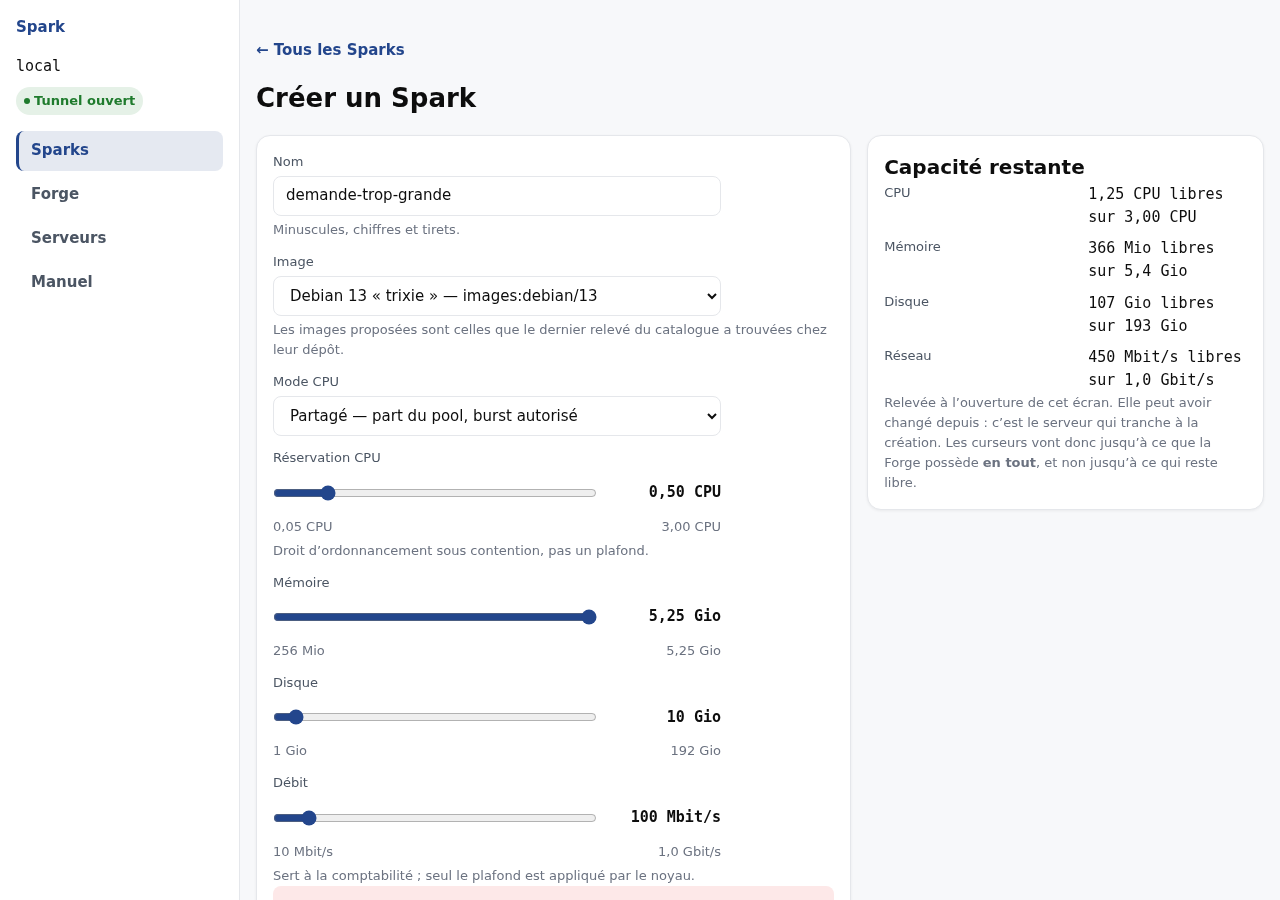
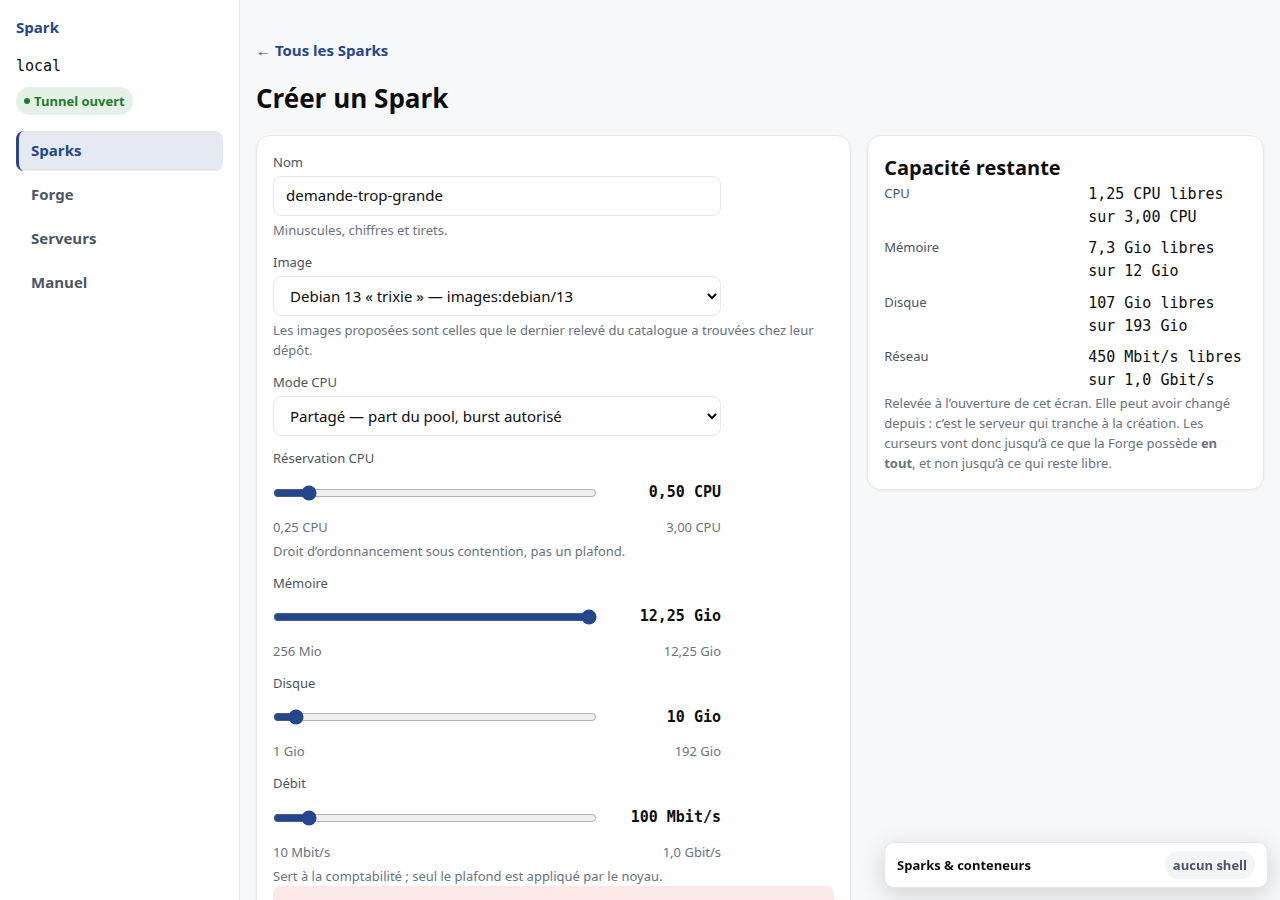
regler le CPU par quarts, la ou 0,05 ne vendait rien (SPK-59)
Decision du responsable : la reservation et le plafond CPU se reglent par
pas de 0,25 CPU, borne basse comprise, et non plus de 0,05.

0,25 CPU est la plus petite part que le produit partage. Les quatre crans
intermediaires ne correspondaient a aucune part demandee, et la borne
basse tombait sur 0,05 CPU, que personne ne demande. Sur un pool de
4 CPU, le curseur passe de 80 crans a 16.

Ce n'est pas une limite de la machine, et le document le dit maintenant :
sparkd sait poser plus fin — environ 0,024 CPU sur un pool de 4 CPU a la
priorite par defaut (DAT §7.2 bis). Le motif que la table du SPK-DS-07
portait pour 0,05 CPU, « la plus petite part que le produit sait poser »,
etait donc faux ; il est remplace.

Le plafond suit la meme grille que la reservation : deux quotas de la
meme unite sur le meme ecran ne peuvent pas avancer par crans
differents. Les parts du seed — 0,25 et 0,50 CPU — restent sur un cran,
donc atteignables au curseur.

DESIGN_SYSTEM_APP SPK-DS-07, BACKLOG SPK-59 et manuel M5 mis a jour,
illustrations m5-formulaire et m5-refus refaites et observees.

diff --git a/apps/webui/src/components/spark-create.test.js b/apps/webui/src/components/spark-create.test.js
@@ -323,6 +323,35 @@ test('la memoire avance par pas de 256 Mio', () => {
   assert.equal(formatQuota('memory_gib', 0.5), '512 Mio');
 });
 
+test('la reservation et le plafond CPU avancent par pas de 0,25 CPU', () => {
+  // Decision du responsable (SPK-DS-07) : 0,25 CPU est la plus petite part que
+  // le produit partage. Un pas de 0,05 offrait quatre crans intermediaires
+  // qu'aucune part vendable n'occupe, et posait la borne basse a 0,05 CPU.
+  assert.equal(QUOTAS.cpu_reservation.pas, 0.25);
+  assert.equal(QUOTAS.cpu_reservation.min, 0.25);
+  assert.equal(QUOTAS.cpu_max.pas, 0.25);
+  assert.equal(QUOTAS.cpu_max.min, 0.25);
+  const partage = renderSparkCreate({ values: { ...DEFAUTS, name: 'ok' }, ...CONTEXTE });
+  assert.match(partage, /id="cpu_reservation"[^>]*step="0.25"/);
+  assert.match(partage, /id="cpu_reservation"[^>]*min="0.25"/);
+  const plafonne = renderSparkCreate(
+    { values: { ...DEFAUTS, name: 'ok', cpu_mode: 'capped' }, ...CONTEXTE });
+  assert.match(plafonne, /id="cpu_max"[^>]*step="0.25"/);
+  assert.match(plafonne, /id="cpu_max"[^>]*min="0.25"/);
+});
+
+test('les parts du SEED restent atteignables au curseur', () => {
+  // 0,25 et 0,5 CPU : ce que le seed pose. Une grille qui les manquerait
+  // renverrait l'ecran a la saisie sur ses propres donnees de demonstration.
+  const max = borneHaute('cpu_reservation', CONTEXTE);
+  for (const part of [0.25, 0.5, 1]) {
+    const html = renderSparkCreate(
+      { values: { ...DEFAUTS, name: 'ok', cpu_reservation: part }, ...CONTEXTE });
+    assert.match(html, new RegExp(`<input type="range"[^>]*id="cpu_reservation"`),
+      `${part} CPU doit tomber sur un cran (borne haute ${max})`);
+  }
+});
+
 test('la valeur affichee est EXACTE sur la grille, jamais arrondie', () => {
   // §6.9 bis : un curseur qui affiche « 10 Gio » pour 10,25 ment sur ce qu'il
   // envoie, et trois crans sur quatre deviennent invisibles.

diff --git a/apps/webui/src/components/spark-create.js b/apps/webui/src/components/spark-create.js
@@ -146,10 +146,17 @@ function nombre(id, valeur, pas, erreur, aide) {
  * d'admission deviendrait inatteignable depuis le parcours canonique.
  */
 export const QUOTAS = {
-  cpu_reservation: { pas: 0.05, min: 0.05,
+  // 0,25 CPU, décision du responsable (SPK-DS-07) : c'est la plus petite part
+  // que le produit accepte de PARTAGER, donc la plus petite qu'un curseur doive
+  // savoir viser. Le pas de 0,05 offrait quatre crans intermédiaires dont aucun
+  // ne correspondait à une part vendable, et il posait la borne basse sur une
+  // valeur — 0,05 CPU — que personne ne demande.
+  cpu_reservation: { pas: 0.25, min: 0.25,
                      borne: (c) => c.pools?.cpu?.capacity,
                      format: (v) => `${formatCpu(v)} CPU` },
-  cpu_max:         { pas: 0.05, min: 0.05,
+  // Même grille pour le plafond : deux quotas de la même unité sur le même
+  // écran ne peuvent pas avancer par crans différents.
+  cpu_max:         { pas: 0.25, min: 0.25,
                      borne: (c) => c.pools?.cpu?.capacity,
                      format: (v) => `${formatCpu(v)} CPU` },
   cpu_cores:       { pas: 1, min: 1,

diff --git a/docs/DESIGN_SYSTEM_APP.md b/docs/DESIGN_SYSTEM_APP.md
@@ -292,11 +292,29 @@ numérique** : sans bornes, pas de curseur (§6.9 bis, condition 1).
 
 | Quota | Pas | Motif |
 |---|---|---|
-| réservation et plafond CPU | 0,05 CPU | la plus petite part que le produit sait poser |
+| réservation et plafond CPU | **0,25 CPU** | décision du responsable, 2026-09-02 |
 | cœurs | 1 | un cœur physique ne se coupe pas |
 | **mémoire** | **256 Mio** | décision du responsable, 2026-08-20 |
 | disque | 1 Gio | le quota compte l'écrit après compression, au gibioctet |
 | débit | 10 Mbit/s | la comptabilité du lien ne descend pas plus bas |
+
+**0,25 CPU est la plus petite part que le produit partage**, et c'est une
+décision de produit, non une limite de la machine. `sparkd` sait poser plus fin :
+à l'échelle ×1000 du `docs/DAT.md` §7.2 bis, le plancher d'une réservation vaut
+`11 − priorité` pour mille du pool partagé, soit environ 0,024 CPU sur un pool de
+4 CPU à la priorité par défaut. Le pas de 0,05 CPU offrait donc quatre crans
+intermédiaires entre deux parts vendables, dont aucun ne correspond à une part
+que quiconque demande, et il posait la borne basse du curseur sur 0,05 CPU. Le
+pas de 0,25 CPU place chaque cran sur une part réelle — 0,25, 0,50, 0,75, 1 CPU —
+et fait tomber le curseur d'un pool de 4 CPU de 80 crans à 16.
+
+Le plafond suit la même grille que la réservation : deux quotas de la même unité
+sur le même écran ne peuvent pas avancer par crans différents (§6.9 bis).
+
+Les parts que le seed emploie — 0,25 et 0,50 CPU — restent sur un cran, donc
+atteignables au curseur. Une réservation déjà posée hors de cette grille se rend
+en **saisie**, par la règle générale : l'écran n'arrondit jamais en silence ce
+qu'il s'apprête à envoyer.
 
 Le gibioctet était trop grossier pour la mémoire, et la mesure le dit : le seed
 pose des Sparks à **512 Mio**, valeur qu'un pas de 1 Gio rend inatteignable. Sur

diff --git a/docs/BACKLOG.md b/docs/BACKLOG.md
@@ -3544,6 +3544,16 @@ manipulables, et que ce pas ne détruit pas la granularité que la valeur signif
   2026-08-20 dans `docs/AGENT_RUNBOOK.md` §F, avec le chiffre qui la rend non
   négociable : la VM de développement dispose de **7,5 Gio**, pas de la mémoire
   de la machine hôte.
+- **Amendement du responsable, 2026-09-02, livré le même jour** : la réservation
+  et le plafond CPU se règlent par pas de **0,25 CPU**, borne basse comprise, et
+  non plus de 0,05. Motif : 0,25 CPU est la plus petite part que le produit
+  partage ; les quatre crans intermédiaires ne correspondaient à aucune part
+  demandée, et la borne basse tombait sur 0,05 CPU, que personne ne demande. Ce
+  n'est **pas** une limite de la machine — `sparkd` sait poser plus fin, environ
+  0,024 CPU sur un pool de 4 CPU à la priorité par défaut (`docs/DAT.md`
+  §7.2 bis) —, et le motif que la table du SPK-DS-07 portait pour 0,05 CPU,
+  « la plus petite part que le produit sait poser », était donc faux. Détail au
+  `docs/DESIGN_SYSTEM_APP.md` SPK-DS-07, manuel M5 mis à jour.
 
 **Spécifiée et commencée le 2026-08-21.** `docs/DAT.md` **§43.9** et
 `docs/SCHEMA.md` §10 ter écrits et committés **avant la première ligne de code** :

diff --git a/docs/manuel/M5-creer.md b/docs/manuel/M5-creer.md
@@ -20,9 +20,11 @@ avancent d'un cran, `Origine` et `Fin` vont aux extrémités, `Page préc.` et
 
 Chaque quota a son propre pas, choisi sur ce que la valeur signifie : la
 **mémoire avance de 256 Mio**, le disque d'un gibioctet, le débit de 10 Mbit/s,
-la réservation CPU de 0,05 CPU. La mémoire est plus fine que les autres parce que
-des Sparks utiles tiennent en 512 Mio : un pas d'un gibioctet aurait rendu cette
-valeur impossible à choisir.
+la réservation CPU — comme le plafond CPU — de **0,25 CPU**. La mémoire est plus
+fine que les autres parce que des Sparks utiles tiennent en 512 Mio : un pas d'un
+gibioctet aurait rendu cette valeur impossible à choisir. Le CPU, lui, avance par
+quarts parce que c'est la plus petite part que le produit partage : les crans
+intermédiaires ne correspondaient à aucune part demandée.
 
 La valeur affichée est toujours **exacte** — « 512 Mio », « 1,25 Gio » — et jamais
 arrondie. C'est délibéré : un curseur qui afficherait « 10 Gio » pour 10,25
